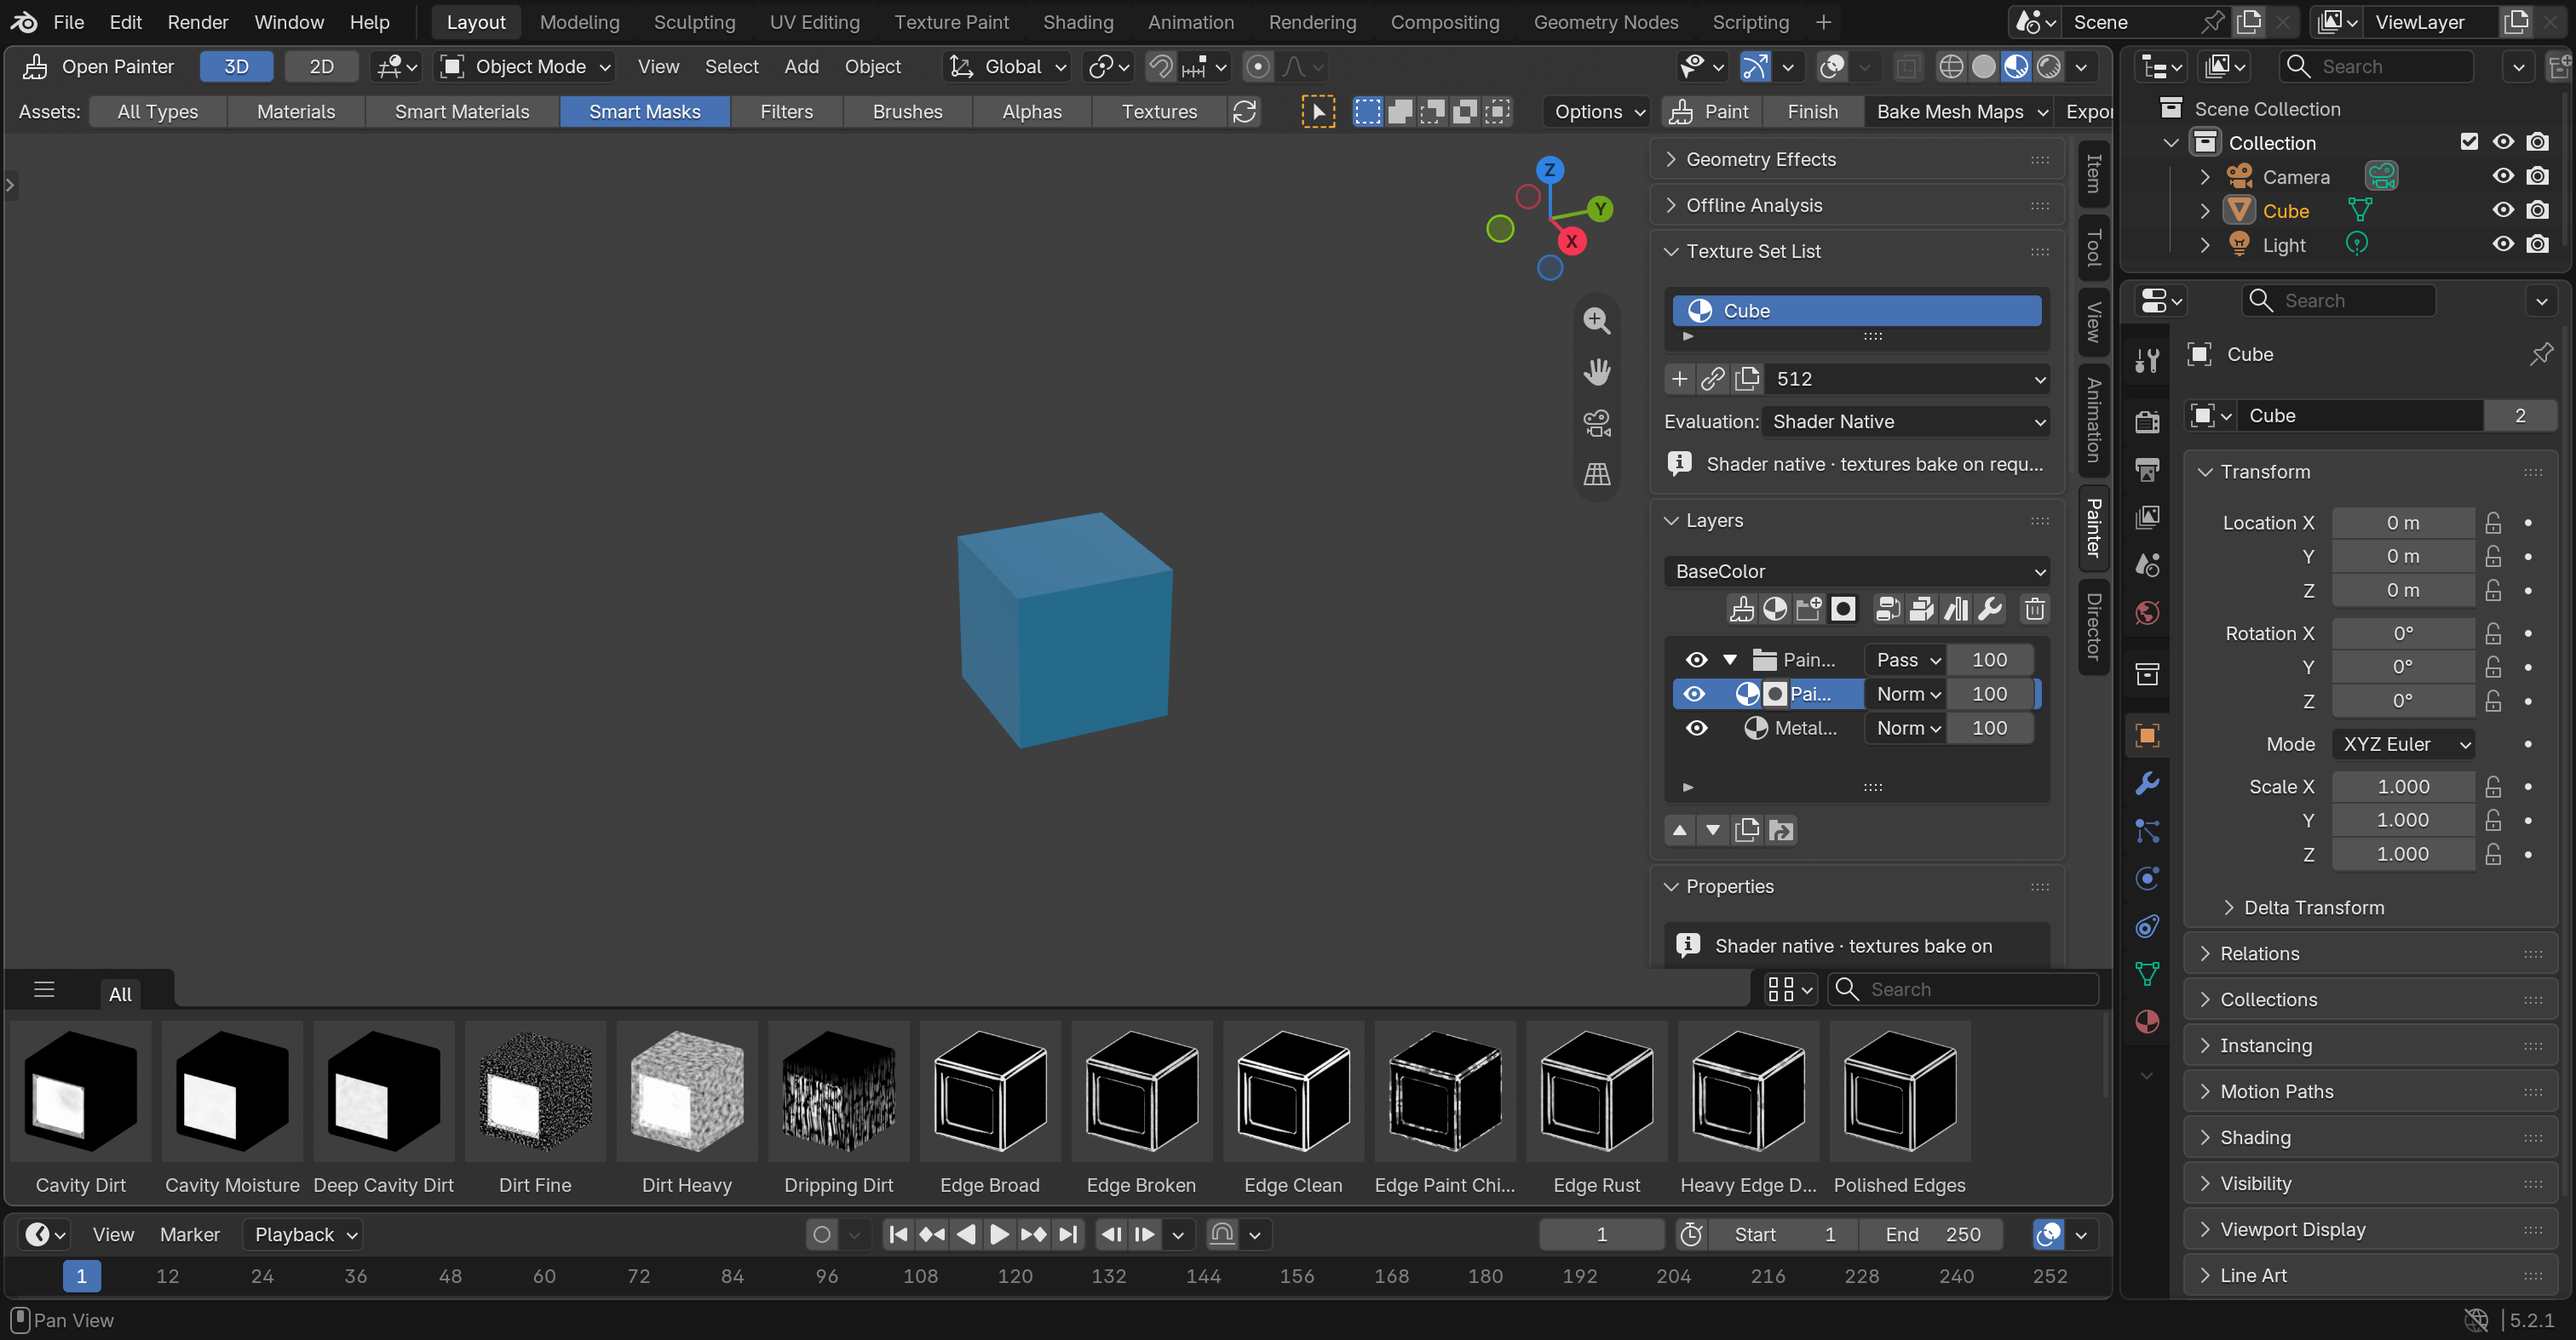
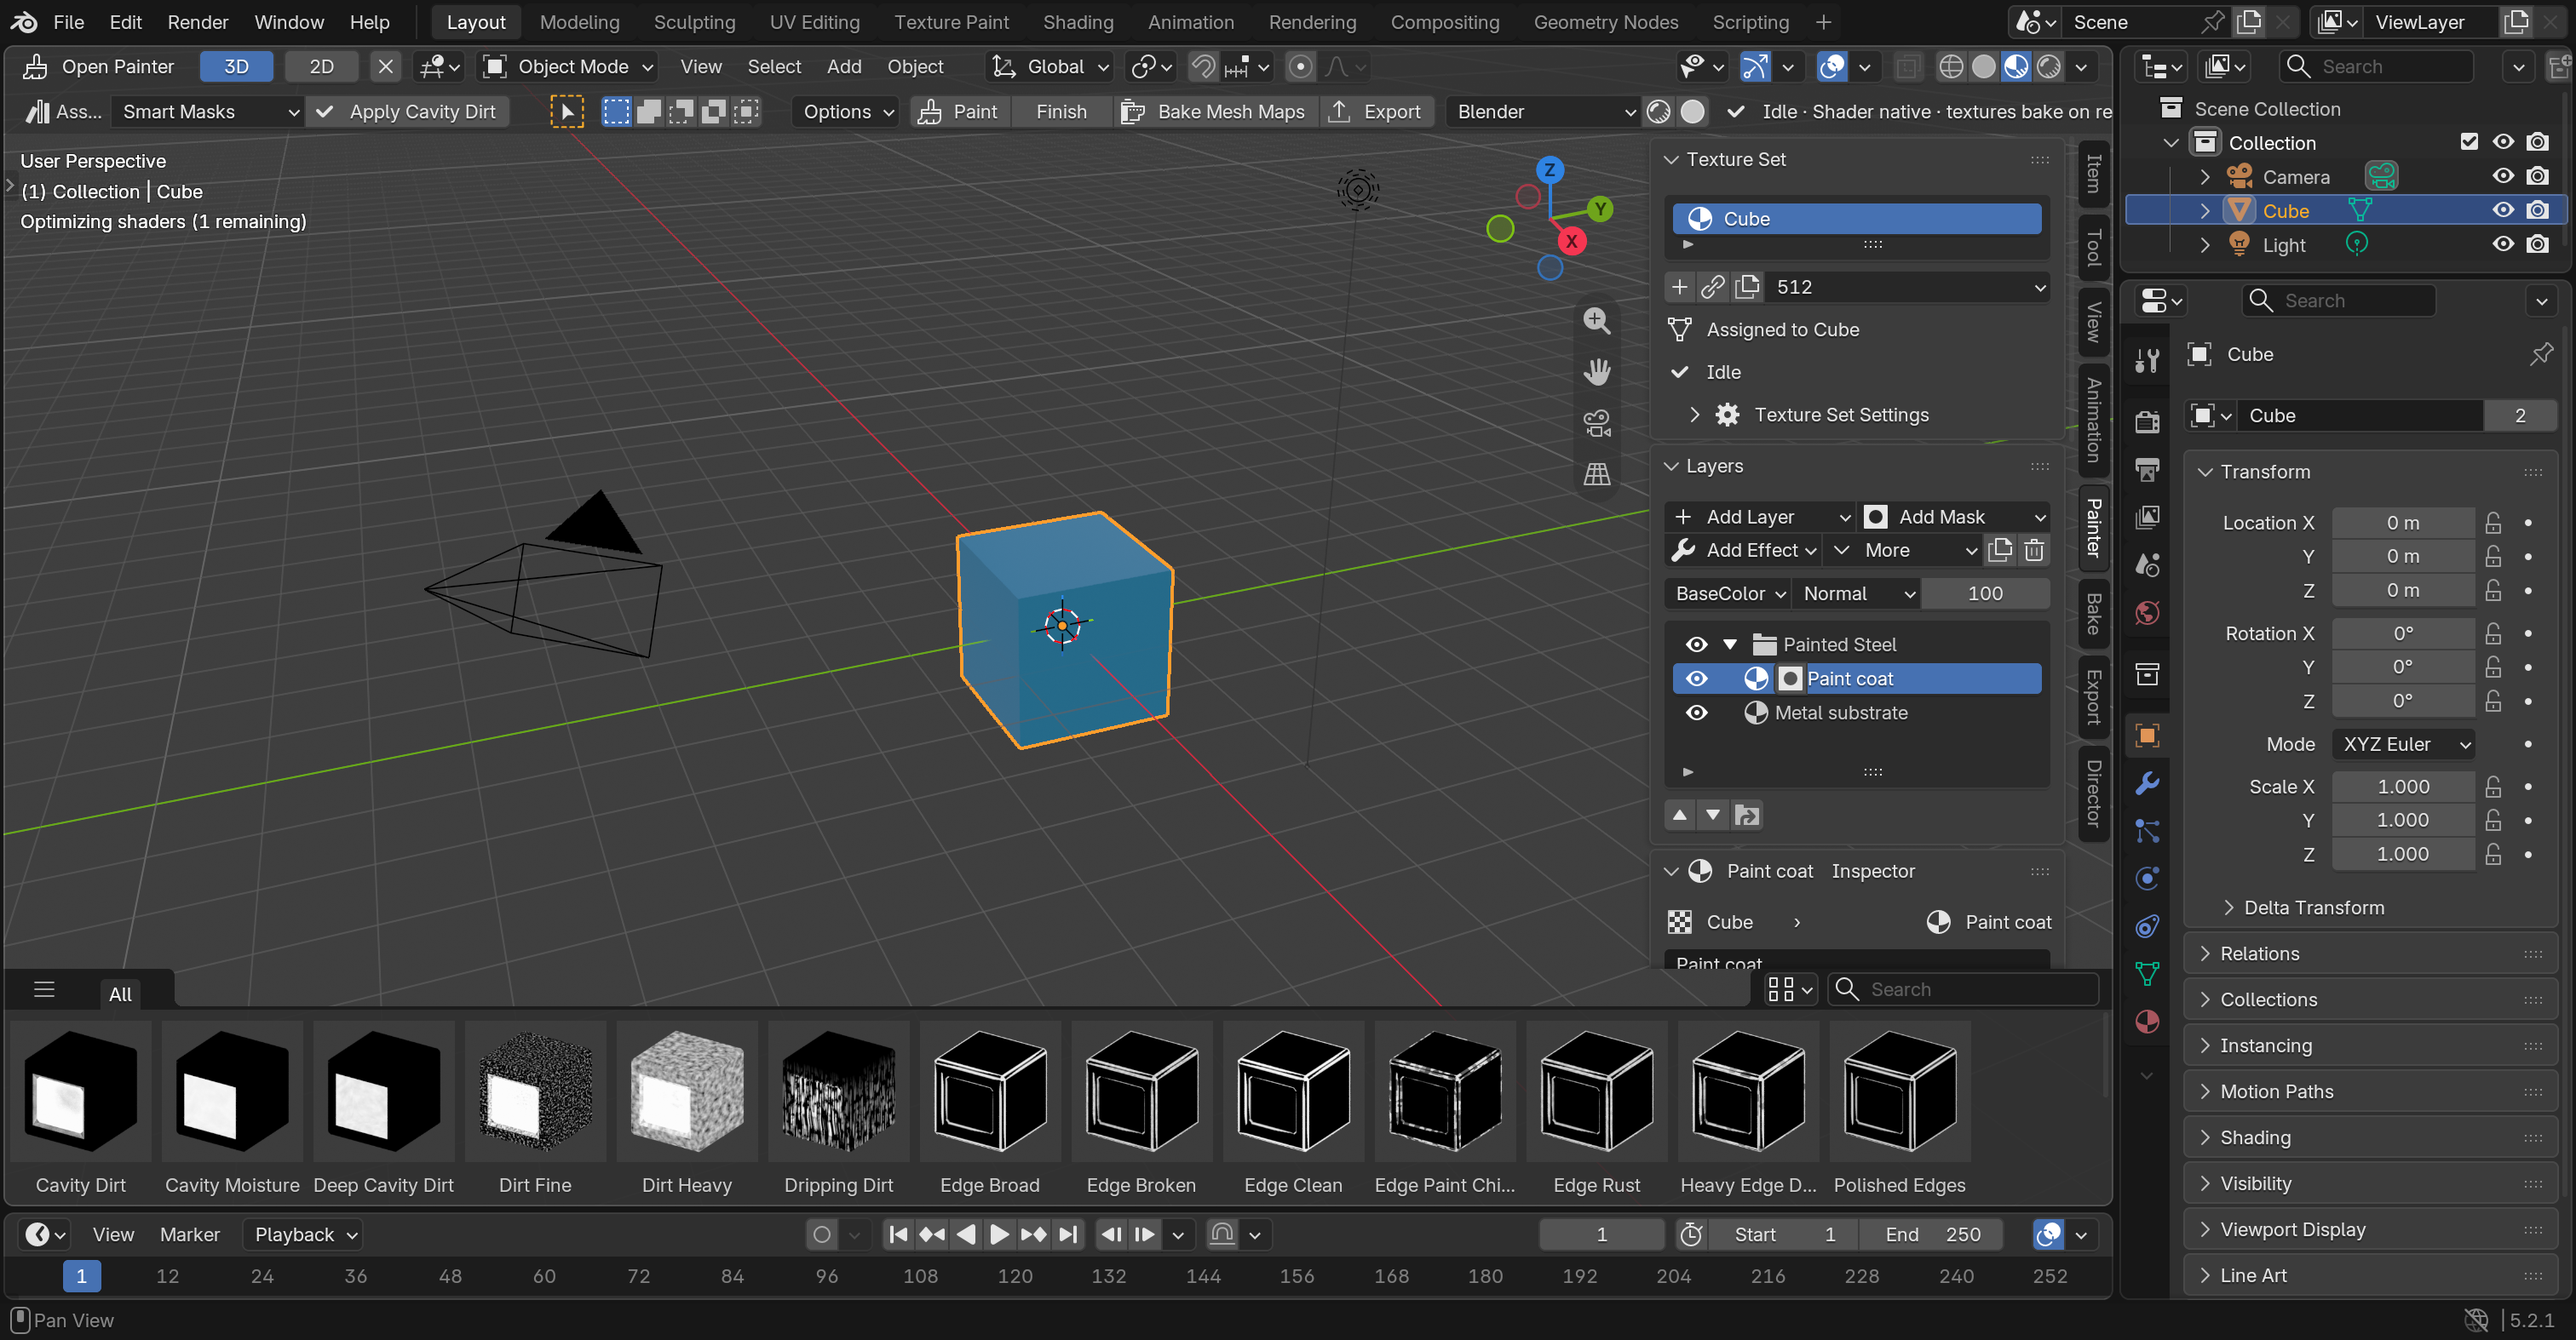
0.12.0: focused task views, tools in context, nodes, the assistant and one status (UI plan phases 4–8)
Version bump, changelog, implementation status, milestone entry, the refreshed native
painter screenshot, and the Idle status keeps only an operator's own message rather than
the shader session's generic line.

diff --git a/src/open_painter/ui/status.py b/src/open_painter/ui/status.py
@@ -77,7 +77,11 @@ def of(context, ts=None):
         image = getattr(getattr(context, "space_data", None), "image", None)
         if image is not None and image.get(MARKER) and stale(ts, image):
             return Status("Stale", "composite snapshot out of date")
-    return Status("Idle", _shorten(project.status) if project.status else "")
+    # The shader session writes its generic line into project.status; that is the notice this
+    # status replaces, so only an operator's own message stays as the Idle detail.
+    generic = shader_preview.status(scene, ts) if shader_preview.requested(ts) else ""
+    detail = project.status if project.status and project.status != generic else ""
+    return Status("Idle", _shorten(detail))
 
 
 def draw(layout, context, ts=None, *, compact=False):

diff --git a/src/open_painter/constants.py b/src/open_painter/constants.py
@@ -1,6 +1,6 @@
 """Stable on-disk identifiers and ownership markers."""
 
-VERSION = "0.11.0"
+VERSION = "0.12.0"
 # Keep the first five enum positions stable for existing .blend projects.
 BLEND_ITEMS = [
     (key, label, "")

diff --git a/docs/implementation-status.md b/docs/implementation-status.md
@@ -16,6 +16,22 @@ Earlier small-fixture passes are secondary evidence for individual code paths.
 Earlier reports below describe their named release's evaluator and measurements.
 
 
+## Focused task views and tools in context (UI plan phases 4–8) 0.12.0 — 2026-09-18
+
+| Item | Status | Evidence |
+| --- | --- | --- |
+| Bake view: Setup / Maps / Results, truthful map states, recommendation without overwriting, previous map kept on failure, queue bound to its set, Stop After This Map, Add Baked Normal and AO Layer | done | `tests/integration/bake_view.py`, `tests/unit/test_bake_queue.py` |
+| Export view: one resolved plan for preview and export; explicit scope with no widening; overrides and folders shown and kept; refuses existing files unless allowed; view opens without mutation | done | `tests/integration/export_view.py` |
+| Material Aging: Applied To / Construction / Environment / Age first, named sections, relative-intensity sliders with endpoint meanings, modified-preset mark, separate resets, named live toggle | done | `tests/integration/contextual_tools.py`, `material_aging_ui.py` |
+| Geometry Effects: applied list with selection-specific inspector, presets behind Add Geometry Effect and on the shelf, explicit bake-back outputs | done | `tests/integration/contextual_tools.py`, `geometry_effects.py`, `geometry_effects_ui.py` |
+| Offline analysis relocated to its inputs (contact fields, attribute masks, performance menu, export preparation), commands searchable | done | `tests/integration/contextual_tools.py`, `offline_analysis.py` |
+| Nodes: typed sockets (material bundle, colour, scalar, normal, coverage) with tooltips, one-time reconcile of older trees, Edit Nodes framed on the selection, Frame Selected / Full Graph, scope path in the header | done | `tests/integration/nodes_and_assistant.py`, `graph_mirror.py`, `graph_view_ui.py` |
+| Material Assistant: Target → Instruction → Run → Changes, compact mode, sharing summary from the composed payload, connection settings in preferences | done | `tests/integration/nodes_and_assistant.py`, `material_director.py`, `material_director_ui.py` |
+| One status model, Clean View, narrow-sidebar layout, reasons on disabled actions | done | `tests/integration/ui_release.py` |
+| Responsiveness on the recorded fixture: selection p95 ≈ 13 ms; warmed control edit p95 ≈ 238 ms (uniform) / ≈ 260 ms (generator amount), callback ≈ 5 ms, the rest viewport redraw; first compile ≈ 19 s | measured | `tests/integration/ui_response_ui.py` (`.blender-test/ui-response.json`) |
+| Task-based sessions with five artists | not run — needs people; the automated matrix above is the release evidence | — |
+| Master controls for the remaining catalog recipes | not started — authored per recipe on demand | — |
+
 ## Everyday editing workflow (UI plan phases 0–3) 0.11.0 — 2026-09-18
 
 | Item | Status | Evidence |

diff --git a/docs/milestone-workflows.md b/docs/milestone-workflows.md
@@ -3,6 +3,13 @@
 Use the existing Open Painter editor and native Painter panels. These changes do
 not replace the editor or the material library.
 
+- **Focused task views (0.12.0):** tool header → *Bake Mesh Maps* opens the *Bake* tab (Setup,
+  Maps with states and per-map settings, Results with what landed and failed) and *Export* opens
+  the *Export* tab (Contents → Scope → Destination Preset → Folder → Output Preview, one plan for
+  the preview and the write); *Clean View* hides the scene furniture and puts it back; the
+  Texture Set panel's status line says Idle / Updating / Stale / Baking / Failed / Paused; *Edit
+  Nodes* frames the selected item; the *Director* tab reads Target → Instruction → Run → Changes.
+  [Details](ui-refactor.md).
 - **Everyday editing workflow (0.11.0):** click a shelf asset, read its target in the *Assets*
   panel, click it again (or *Apply*) to add it as a named group; select the group in *Layers* to
   edit its master controls (Worn Painted Metal: Paint Color, Chip Amount, …); press a row's mask
